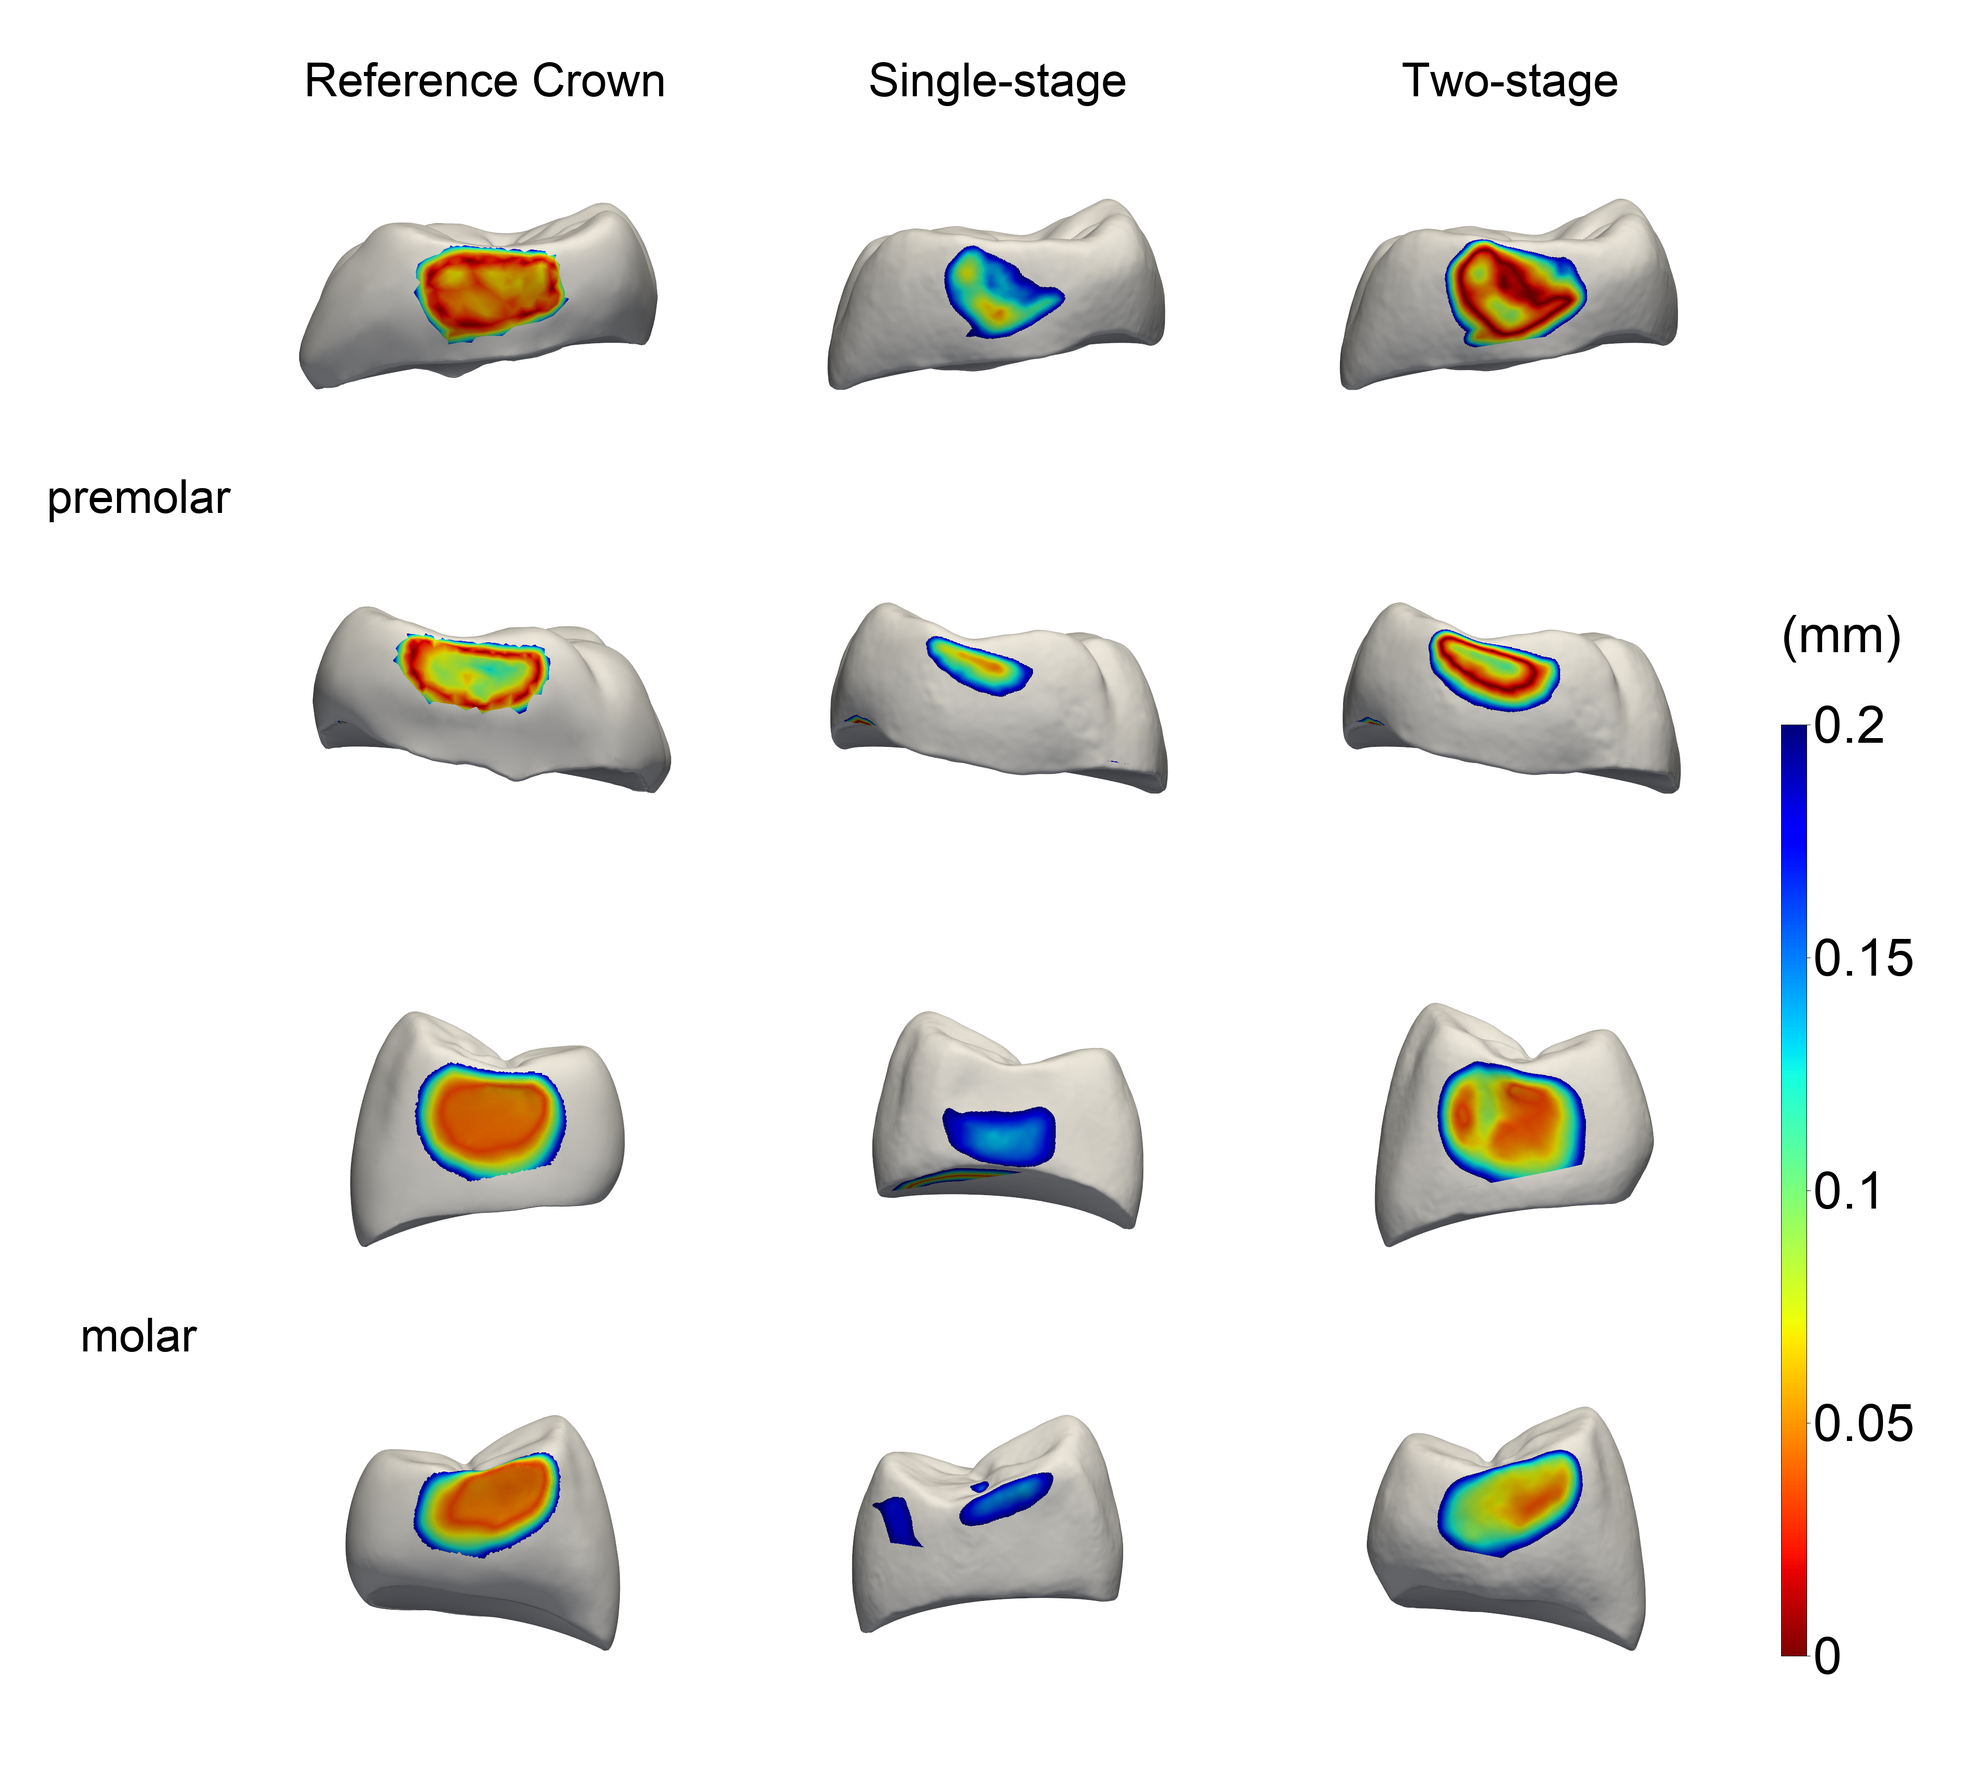
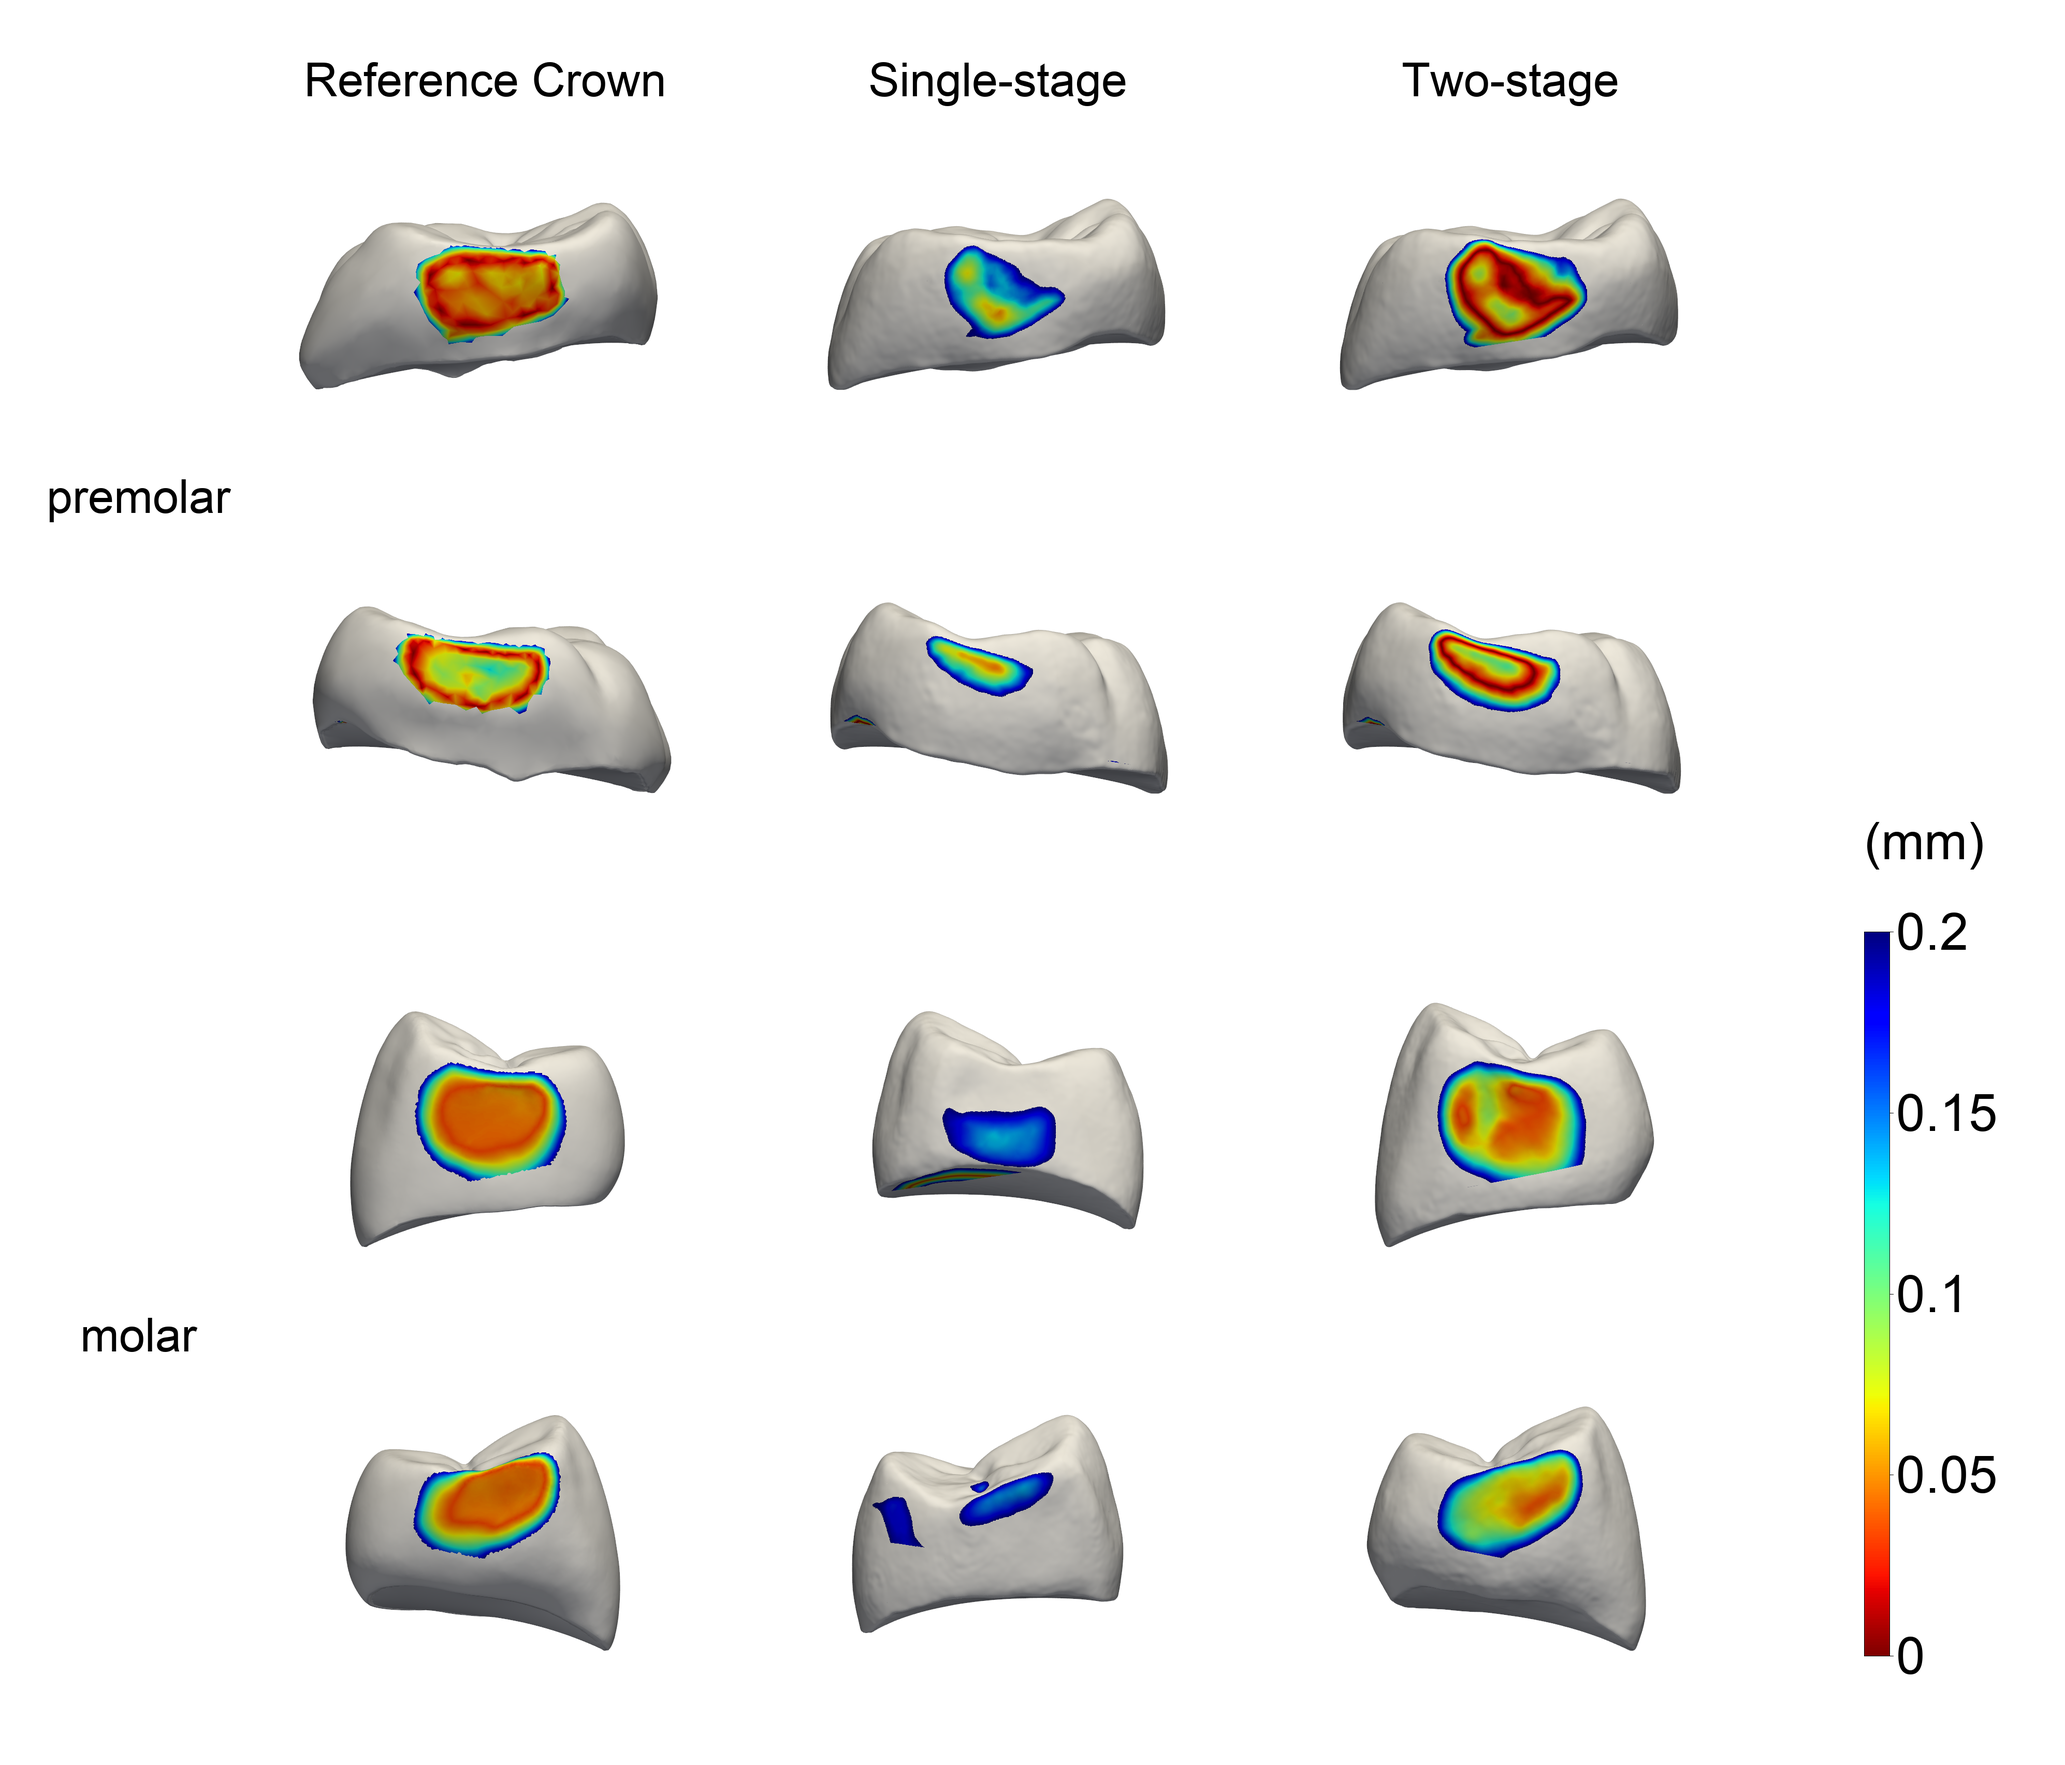
update /ablation_adjacent

diff --git a/figures/ablation_adjacent/step3_merge_imgs.py b/figures/ablation_adjacent/step3_merge_imgs.py
@@ -66,7 +66,7 @@ def main() -> None:
     parser.add_argument("--colorbar-font-size", type=int, default=100,
                         help="colorbar tick font size (default: 80)")
     # 色带图宽度
-    parser.add_argument("--colorbar-length", "--colorbar-width", "--colorbar_width", dest="colorbar_width", type=int, default=1800,
+    parser.add_argument("--colorbar-length", "--colorbar-width", "--colorbar_width", dest="colorbar_width", type=int, default=1400,
                         help="vertical colorbar length in pixels (default: automatic)")
     # 色带图带宽
     parser.add_argument("--colorbar-thickness", type=int, default=50,
@@ -75,7 +75,7 @@ def main() -> None:
                         help="horizontal gap between images and colorbar (default: 80)")
     # 色带图位置
     parser.add_argument("--colorbar-position", "--colorbar_position", nargs=2, type=int,
-                        default=(3600, 1300), metavar=("X", "Y"),
+                        default=(3600, 1800), metavar=("X", "Y"),
                         help="colorbar top-left pixel coordinates; origin is image top-left (default: 3500 1500)")
     args = parser.parse_args()
     if len(args.clim) not in (1, 2):
